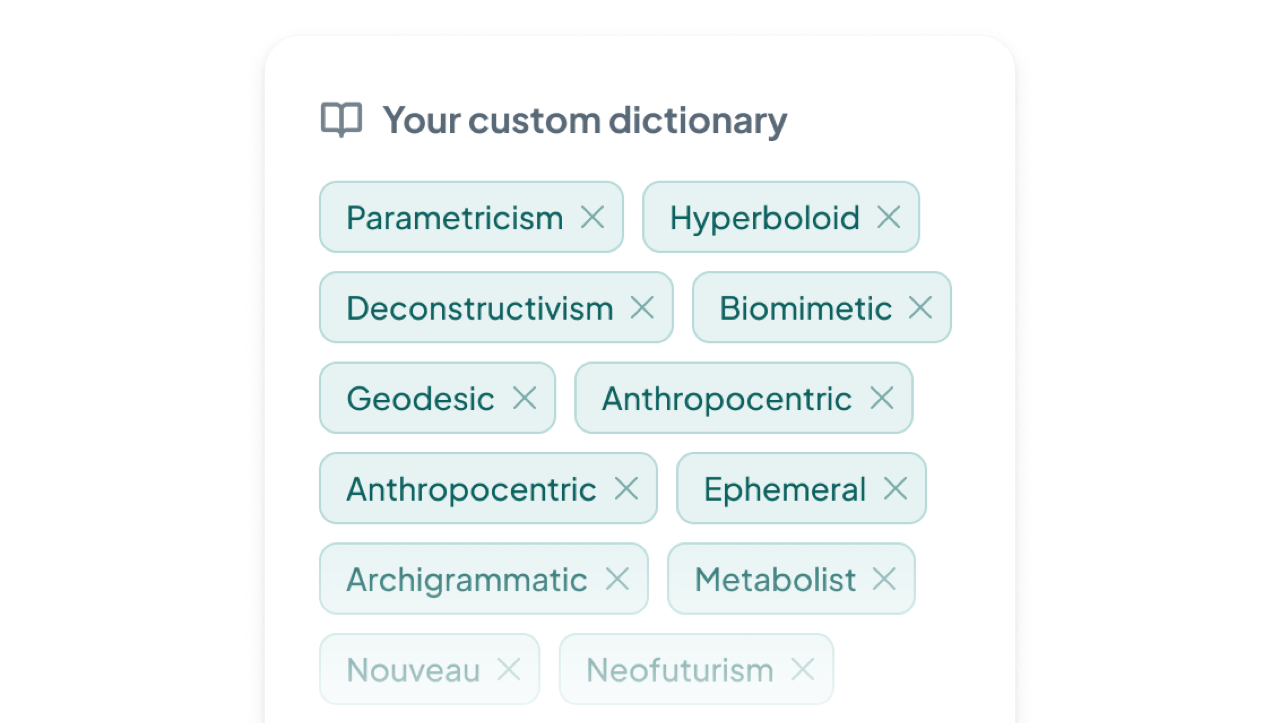
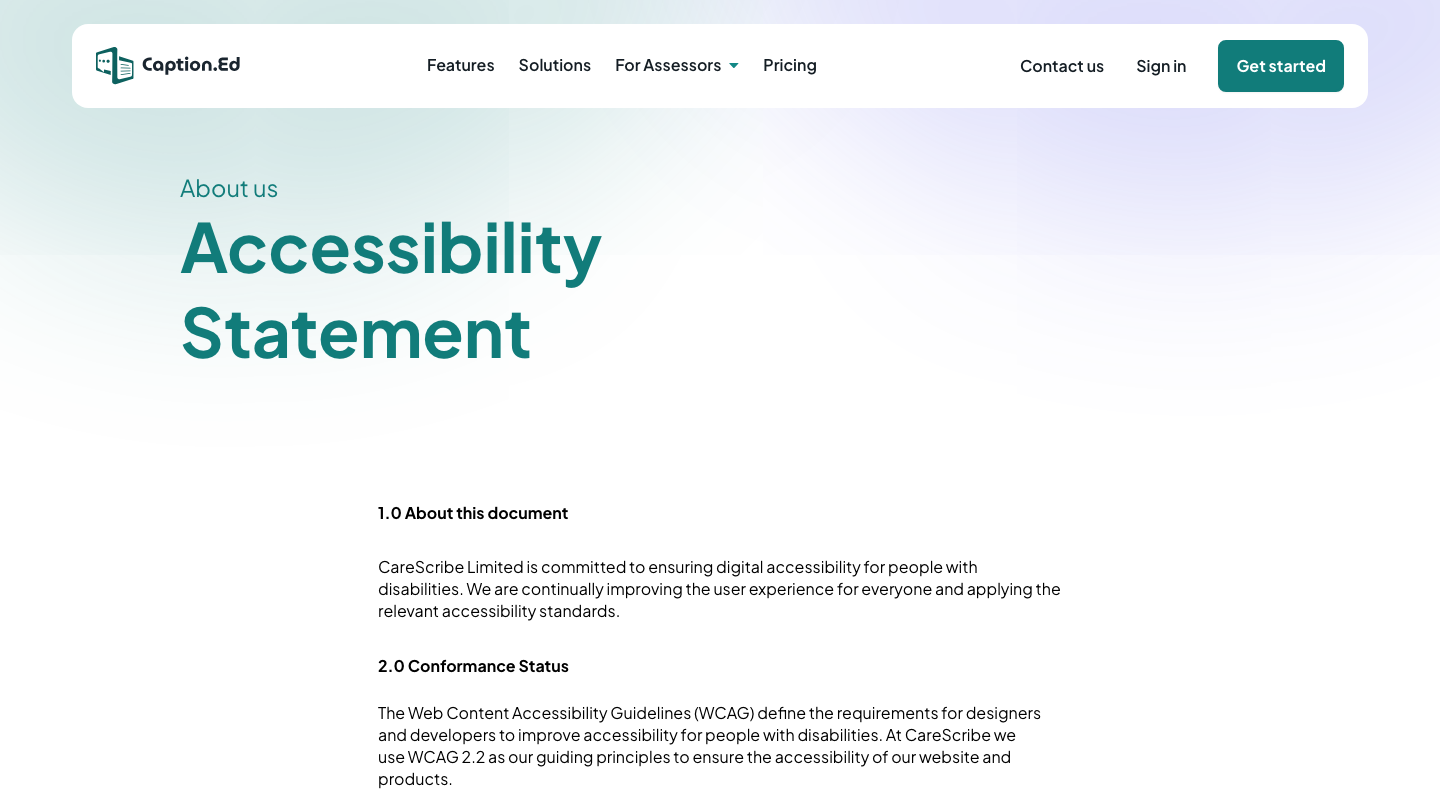
Close the contrast, caption and capture items
- A new --edge token draws the boundary of a control the reader can
  select. It holds 3.0:1 or better against paper, surface and sunk, in
  both themes. The plate hairline was 1.48:1 in light and 1.29:1 in dark.
- --ink-3 in the light theme moves to #5E6B6F. It was 3.36:1 against
  surface and 2.88:1 against paper. It is now 5.31:1 and 4.54:1. The
  dark value already passed.
- Every one of the 243 frames now carries a caption and a source.
  StudyFetch Authorship was the last one missing.
- Five new frames. Accessibility: Genio Notes, CENTURY, Caption.Ed and
  Jamworks. Authorship: Studiosity. The Caption.Ed frame replaces one
  that showed the transcription dictionary, which is not an
  accessibility control.
- Grey blocks cover the byline name and photo in the Studiosity article.

Accessibility now holds 11 frames of 30. Of the 19 without one, 11 cells
read "none found", thus no frame can exist.

diff --git a/index.html b/index.html
@@ -23,9 +23,12 @@
   --sunk: #DDE2DB;
   --rule: #CBD2CC;
   --rule-strong: #A9B4AC;
+  /* The boundary of a control the reader can select. It holds 3:1 against
+     every ground it sits on, thus it passes WCAG 1.4.11. */
+  --edge: #728475;
   --ink: #101E23;
   --ink-2: #4C5D62;
-  --ink-3: #7C8C90;
+  --ink-3: #5E6B6F;
   --accent: #0C4A50;
   --accent-ink: #FAFBF8;
   --accent-soft: #D3E1E0;
@@ -57,6 +60,7 @@
     --sunk: #0A1113;
     --rule: #253034;
     --rule-strong: #3B4A4E;
+    --edge: #516971;
     --ink: #DFE6E3;
     --ink-2: #A0B0B1;
     --ink-3: #74888C;
@@ -91,6 +95,7 @@
   --sunk: #0A1113;
   --rule: #253034;
   --rule-strong: #3B4A4E;
+  --edge: #516971;
   --ink: #DFE6E3;
   --ink-2: #A0B0B1;
   --ink-3: #74888C;
@@ -1081,7 +1086,7 @@ html[data-view="journey"] .cat-blurb { display: none; }
   display: flex;
   flex-direction: column;
   min-width: 0;
-  border: 1px solid var(--rule);
+  border: 1px solid var(--edge);
   background: var(--surface);
 }
 .x-ev { height: 3px; flex: none; }
@@ -1186,7 +1191,7 @@ html[data-view="journey"] .cat-blurb { display: none; }
 }
 .x-mount--absent { background: var(--sunk); }
 .x-cell .x-plate { transition: border-color .12s; }
-.x-cell:hover .x-plate { border-color: var(--rule-strong); }
+.x-cell:hover .x-plate { border-color: var(--ink-3); }
 .x-cell[aria-current="true"] .x-plate { border-color: var(--accent); box-shadow: 0 0 0 2px var(--accent); }
 .x-cap { padding: 8px 9px 10px; display: grid; gap: 3px; font: inherit; text-align: left; }
 .x-cap-top { display: flex; align-items: baseline; gap: 8px; }
@@ -1469,7 +1474,7 @@ html[data-view="stage"] .main { padding-bottom: 110px; }
 
 .s-plate {
   margin: 0; display: flex; flex-direction: column; min-width: 0;
-  border: 1px solid var(--rule); background: var(--surface);
+  border: 1px solid var(--edge); background: var(--surface);
 }
 .s-ev { height: 3px; flex: none; }
 .s-mount {
@@ -4377,11 +4382,11 @@ var FRAME_CAPTIONS = {
  },
  "caption-ed": {
   "access": {
-   "c": "A 'Your custom dictionary' panel lists subject words the student added, for example 'Parametricism' and 'Biomimetic'. Adding these words to the dictionary improves transcription for jargon-heavy lectures, a control specific to Caption.Ed among the UK DSA assistive tools.",
-   "crop": false,
-   "note": "hubfs/wp-content asset 'Frame-34658-2.png'. Caption.Ed's own accessibility statement also names light, dark, and sepia display modes, but no screenshot of those modes exists in the sources checked.",
-   "src": "https://caption-ed.com/for-students/",
-   "ts": ""
+   "c": "The CareScribe accessibility statement. Section 2.0 Conformance Status says the company uses WCAG 2.2 as guiding principles. It names no conformance level and no auditor.",
+   "crop": true,
+   "note": "Cut above a cookie consent banner that covered the lower part of the page. The statement date, 14 June 2024, sits below the cut and is in the record instead. This frame replaces an earlier one that showed the transcription dictionary, which is not an accessibility control.",
+   "src": "https://caption-ed.com/accessibilitystatement/",
+   "ts": "2026-09-09"
   },
   "generate": {
    "c": "An AI-built 'Recording summary' for 'Introduction to Cognitive Psychology' sorts the lecture under headings: 'Opening Remarks and Lecture Overview', 'Encoding and Depth of Processing', 'Retrieval Practice and Spaced Repetition', and two more. This matches the research report's description, 'chaptered summaries'.",
@@ -4427,6 +4432,13 @@ var FRAME_CAPTIONS = {
   }
  },
  "century-tech": {
+  "access": {
+   "c": "The CENTURY Platform Accessibility Information article, modified 24 July 2025. It says the learner experience is partially conformant to WCAG 2.2 AA, with action plans for the remaining four criteria.",
+   "crop": true,
+   "note": "Cut below the first bullet of the Platform design section.",
+   "src": "https://support.century.tech/support/solutions/articles/44002663276",
+   "ts": "2026-09-09"
+  },
   "entry": {
    "c": "A login screen offers sign-in for an existing account, or a button that says \"I have a class code.\" A teacher or school sets up the account and the class code, not the student.",
    "crop": false,
@@ -4789,6 +4801,13 @@ var FRAME_CAPTIONS = {
   }
  },
  "genio-notes": {
+  "access": {
+   "c": "The Genio help article 'Is Genio accessible?' states full WCAG 2.1 and 2.2 Level AA compliance, verified by third-party auditor Level Access as of April 2026, with an ACR available.",
+   "crop": true,
+   "note": "Cut below the first line of the Screen reader support section, so that no half sentence sits at the edge.",
+   "src": "https://help.genio.co/article/24-accessibility-and-glean",
+   "ts": "2026-09-09"
+  },
   "entry": {
    "c": "A new-capture menu offers two modes: 'In-Person Recording' (Microphone) and 'Remote Recording' (Screen Audio, or Screen Audio & Mic). This is a capture control, not an account-setup screen. Nothing on screen shows who owns the account.",
    "crop": false,
@@ -4970,6 +4989,13 @@ var FRAME_CAPTIONS = {
   }
  },
  "jamworks": {
+  "access": {
+   "c": "The Jamworks accessibility page. A badge above the headline reads 'WCAG 2.2 Level AA Conformant', and a View VPAT button sits under it.",
+   "crop": true,
+   "note": "Cut below the buttons, above a cookie consent banner. We did not open the VPAT, thus the frame shows the claim and not the report behind it.",
+   "src": "https://jamworks.com/accessibility/",
+   "ts": "2026-09-09"
+  },
   "entry": {
    "c": "A standalone app widget greets the signed-in account by name and shows one button: 'Start recording'. Below it sit 'Go to My Jamworks Account' and 'Change Account' links, so the same widget also switches which account controls the session.",
    "crop": false,
@@ -5715,6 +5741,13 @@ var FRAME_CAPTIONS = {
   }
  },
  "studiosity": {
+  "authorship": {
+   "c": "The Studiosity help article 'Is using Studiosity like cheating?' answers no, and says a student will never receive answers or corrections, only feedback and guidance.",
+   "crop": true,
+   "note": "The byline named a member of Studiosity staff and showed a photo. A grey block covers both. The atlas does not publish a person name or a face. The article is dated 18 December 2023.",
+   "src": "https://support.studiosity.com/en/articles/8719444-is-using-studiosity-like-cheating",
+   "ts": "2026-09-09"
+  },
   "feedback": {
    "c": "The Feedback Summary opens with a note thanking the student and explaining that feedback is split into categories.",
    "crop": true,
@@ -5837,6 +5870,13 @@ var FRAME_CAPTIONS = {
    "note": "",
    "src": "https://youtu.be/p75Twlxjots",
    "ts": "01:22"
+  },
+  "authorship": {
+   "c": "The essay grading results give a score of 79 percent, broken into Introduction, Main Points, Organization, Works Cited and Mechanics. The Suggestions column shows the student's own sentence greyed out above a Suggested Rewrite of finished replacement prose.",
+   "crop": false,
+   "note": "The essay on screen is an op-ed about a Texas legislature campaign. It is the vendor's demo text, not a student's coursework.",
+   "src": "https://youtu.be/38nO-jQyT7w",
+   "ts": "08:54"
   },
   "entry": {
    "c": "The StudyFetch home page shows an empty Your Study Sets list with three folders. A side panel shows a zero-day streak and a daily objective.",
@@ -6022,6 +6062,7 @@ var FRAMES = {
   "generate",
   "switch",
   "return",
+  "access"
  ],
  "century-tech": [
   "entry",
@@ -6030,7 +6071,8 @@ var FRAMES = {
   "select",
   "generate",
   "feedback",
-  "signal"
+  "signal",
+  "access"
  ],
  "chatgpt-study-mode": [
   "entry",
@@ -6093,7 +6135,8 @@ var FRAMES = {
   "generate",
   "feedback",
   "switch",
-  "return"
+  "return",
+  "access"
  ],
  "grammarly-authorship": [
   "entry",
@@ -6124,7 +6167,8 @@ var FRAMES = {
   "generate",
   "feedback",
   "switch",
-  "return"
+  "return",
+  "access"
  ],
  "jenni-ai": [
   "orient",
@@ -6244,7 +6288,8 @@ var FRAMES = {
   "feedback",
   "trace",
   "return",
-  "signal"
+  "signal",
+  "authorship"
  ],
  "studycog": [
   "ingest",

diff --git a/AUDIT.md b/AUDIT.md
@@ -182,15 +182,48 @@ commits carry the work: `8caa69a`, `ef7dd2c` and `9f6fad5`.
 | Evidence classes | 4 into 5 | "Not applicable" replaces 14 boilerplate "none found" cells in Authorship. |
 | The chip beside a picture | all cells | A `not-found` cell that holds a frame now reads "not on this screen". |
 
+## What was applied, 2026-09-09, second pass
+
+Commits `dd4597f` and the one that carries this file close the interface and
+the record items above. Capture is the only item that stays open.
+
+**Fixed in this pass.**
+
+| Area | What changed |
+|---|---|
+| One gesture, one answer | Every plate opens the loupe. The inline drawer, the zoom control and the pan handlers are removed. The loupe carries the whole record, thus a stage with no picture is still worth opening. |
+| The focus trap | One `showLightbox` step now serves both axes. The stage loupe keeps the keyboard inside the dialog. |
+| Contrast | A new `--edge` token draws the boundary of a control the reader can select. It holds 3.0:1 or better against every ground, in both themes. `--ink-3` in light moves to #5E6B6F, which is 4.54:1 against paper. |
+| Captions | Every one of the 243 frames now carries a caption and a source. StudyFetch Authorship was the last one missing. |
+| Personal data | Grey blocks cover the auditor name and the work email in the Helperbird conformance report, and the byline name and photo in the Studiosity article. |
+| Accessibility capture | Four new frames: Genio Notes, CENTURY, Caption.Ed and Jamworks. The Caption.Ed frame replaces one that showed the transcription dictionary. |
+| Authorship capture | One new frame: the Studiosity "Is using Studiosity like cheating?" article. |
+
+**Accessibility, where it stands.**
+
+11 frames of 30. Of the 19 without one, 11 cells read "none found", thus no
+frame can exist. The 8 that describe a claim and hold no picture are
+NotebookLM, Gemini in Classroom, ChatGPT Study Mode, Copilot Study and Learn,
+Khanmigo, Everway Writing Helper, Copilot in Word and MagicSchool.
+
+Four of those were tried and rejected in this pass. The Khan Academy article
+sits behind bot detection, which we do not cross. The Everway page is a
+statement for the website with a stock photo, not the June 2025 VPAT the
+record describes. The Microsoft report directory loaded an empty table. Each
+one would have shown something other than the claim beside it.
+
+**Authorship, where it stands.**
+
+17 frames of 30. 12 of the remaining 13 read "not applicable", because the
+product makes revision material and not text a student submits. Only ChatGPT
+Study Mode is a real gap.
+
 **Still open.**
 
-- Accessibility holds 7 frames of 30 on a DSA-funded product. Capture is the
-  only fix. Authorship, Source traceability and Re-engagement come next.
-- The remaining stage renames wait on a decision. Task selection and
-  Personalisation are settled and keep their names.
-- The stage loupe misses the focus trap that the lightbox uses. Panning is
-  mouse-only. The plate hairline sits at 1.48:1 in light and 1.29:1 in dark.
-  `--ink-3` sits at 3.36:1.
-- Century Tech holds frames with no caption.
+- Citation and grounding holds 17 frames of 30, and Resume and review holds 17.
+  These need in-product capture, thus they wait on access we do not have.
 - Jenni AI needs a frame that shows the web clipper. The old one was a
-  publisher page with no product in it.
+  publisher page with no product in it. The clipper sits inside the signed-in
+  app, thus we cannot capture it from public pages.
+- "Writing Helper" is unresolved. We do not know whether this means the
+  Everway entry we hold or a different product.
